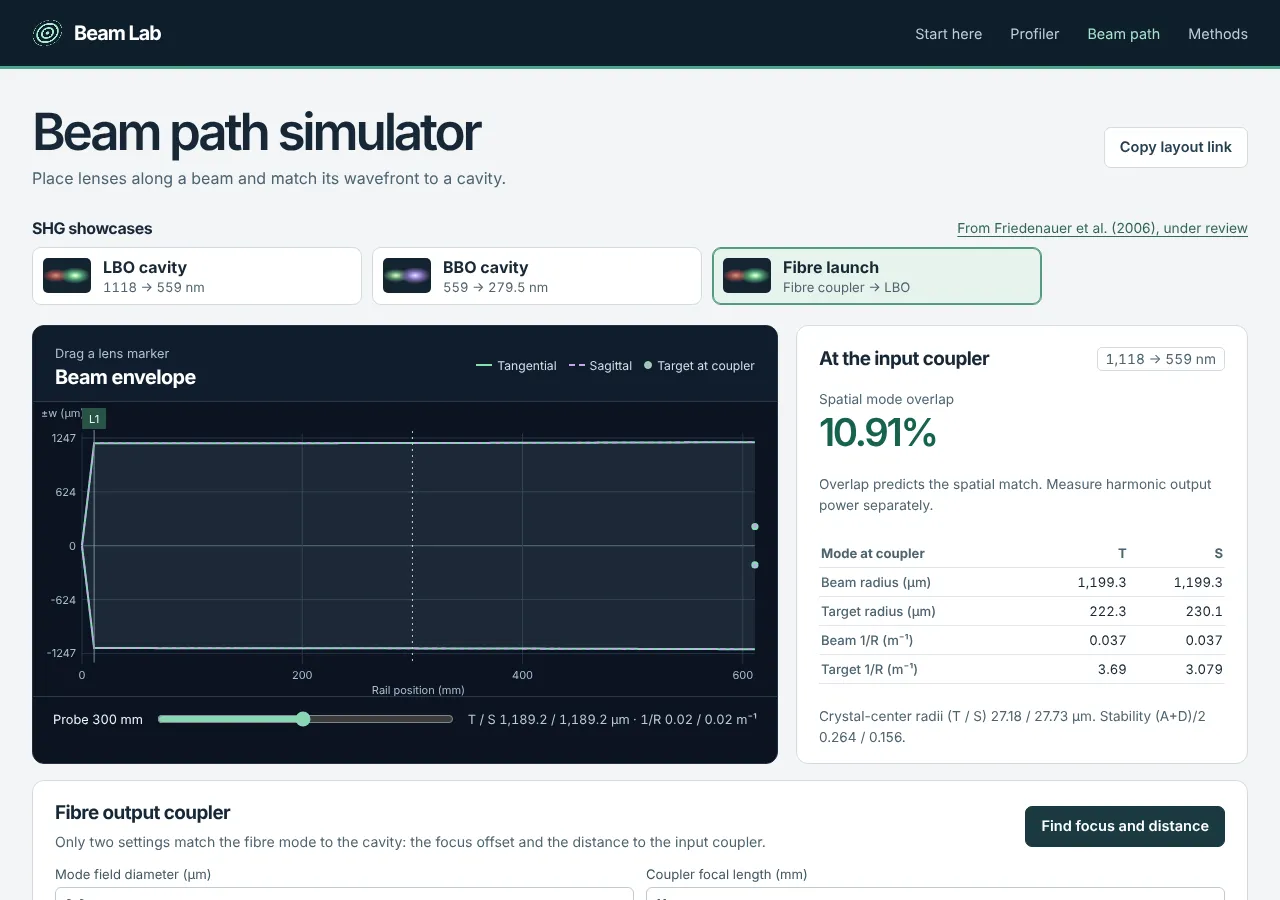
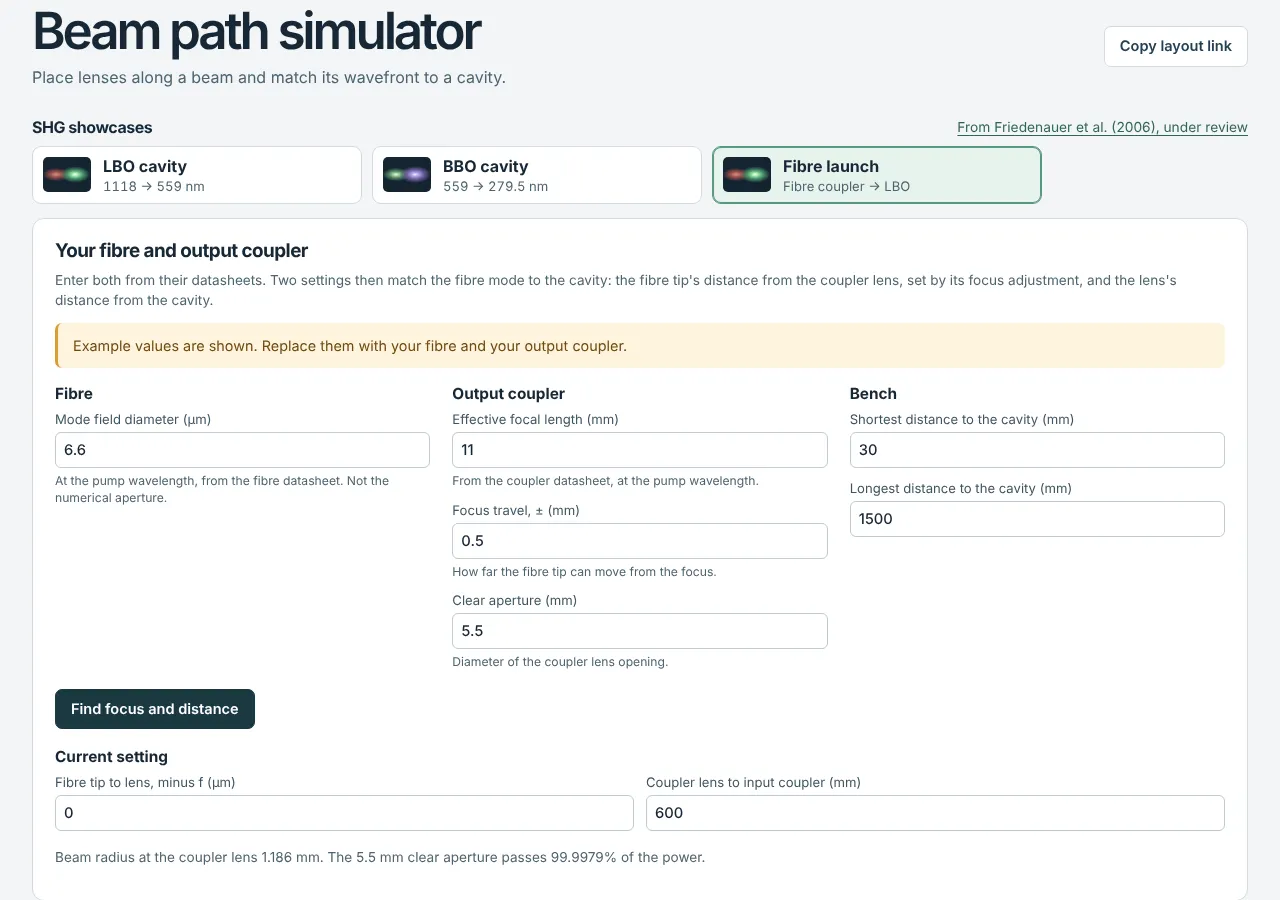
Make the fibre and output coupler the students' entry points
The fibre-launch page now opens with what students must enter, grouped
as fibre (mode field diameter), output coupler (effective focal length,
focus travel, clear aperture) and bench, each with a datasheet hint.
Example values are marked as such, on the page and in the search
result, until replaced. The current setting reads as the fibre tip's
distance from the lens minus f.

Claude-Session: https://claude.ai/code/session_0165KKh8yczxQ5JUnTcFPhvg

diff --git a/beam-path/index.html b/beam-path/index.html
@@ -18,6 +18,18 @@
 <a class="preset" href="?stage=bbo" data-stage="bbo"><span class="spectrum uv" aria-hidden="true"></span><span><strong>BBO cavity</strong><small>559 → 279.5 nm</small></span></a>
 <a class="preset" href="?stage=fiber" data-stage="fiber"><span class="spectrum ir" aria-hidden="true"></span><span><strong>Fibre launch</strong><small>Fibre coupler → LBO</small></span></a></div></section>
 <div id="import-note" class="notice" hidden></div>
+<section class="fit-block" id="fiber-launch" hidden><h2>Your fibre and output coupler</h2>
+<p class="hint">Enter both from their datasheets. Two settings then match the fibre mode to the cavity: the fibre tip's distance from the coupler lens, set by its focus adjustment, and the lens's distance from the cavity.</p>
+<p id="launch-example" class="notice">Example values are shown. Replace them with your fibre and your output coupler.</p>
+<div class="launch-groups">
+<fieldset><legend>Fibre</legend><div class="fields" id="launch-fibre"></div></fieldset>
+<fieldset><legend>Output coupler</legend><div class="fields" id="launch-coupler"></div></fieldset>
+<fieldset><legend>Bench</legend><div class="fields" id="launch-bench"></div></fieldset>
+</div>
+<button id="solve-launch" class="button dark">Find focus and distance</button>
+<fieldset class="launch-settings"><legend>Current setting</legend><div class="fields" id="launch-settings"></div></fieldset>
+<p id="launch-state" class="hint" role="status"></p>
+<p id="launch-result" class="hint" role="status" hidden></p></section>
 <div class="instrument">
 <section class="viewer" aria-label="Live beam path"><header class="view-heading"><div><span>Drag a lens marker</span><h2>Beam envelope</h2></div><div class="legend"><span class="t">Tangential</span><span class="s">Sagittal</span><span class="goal">Target at coupler</span></div></header>
 <canvas id="plot" aria-label="Beam radius along the optical rail. Drag a lens marker to move it, or use the lens position controls below."></canvas>
@@ -32,10 +44,6 @@
 <tr><th>Target 1/R (m⁻¹)</th><td id="tct">—</td><td id="tcs">—</td></tr></tbody></table>
 <p id="ring-result" class="hint"></p></section></div>
 <p class="notice" id="invalid" role="status" hidden></p>
-<section class="fit-block" id="fiber-launch" hidden><div class="section-title"><div><h2>Fibre output coupler</h2><p>Only two settings match the fibre mode to the cavity: the focus offset and the distance to the input coupler.</p></div><button id="solve-launch" class="button dark">Find focus and distance</button></div>
-<div class="fields" id="fiber-fields"></div>
-<p id="launch-state" class="hint" role="status"></p>
-<p id="launch-result" class="hint" role="status" hidden></p></section>
 <section class="fit-block"><div class="section-title"><div><h2>Lens rail</h2><p>Drag a lens on the plot or set its position from the start of the rail.</p></div><button id="add" class="button quiet">Add lens at probe</button></div><div id="lenses"></div></section>
 <section class="fit-block"><div class="section-title"><div><h2>Optimize mode matching</h2><p>Search unlocked positions within the rail, preserving lens order and clearance.</p></div><button id="search" class="button dark">Optimize layout</button></div>
 <div class="search-options"><label>Minimum clearance (mm)<input id="gap" type="number" step="any" min="0" value="10"></label>

diff --git a/beam-path/style.css b/beam-path/style.css
@@ -19,4 +19,7 @@
 
 /* Three showcases: one per row on a phone. */
 @media(max-width:560px){#presets{flex-direction:column}.preset{max-width:none}}
-#fiber-launch .section-title{margin-bottom:14px}
+#fiber-launch fieldset{border:0;padding:0;margin:0 0 16px;min-width:0}#fiber-launch legend{font-weight:650;font-size:.96rem;margin-bottom:8px;padding:0}
+#fiber-launch .notice{margin:4px 0 16px}.launch-groups{display:grid;grid-template-columns:repeat(3,minmax(0,1fr));gap:0 22px}.launch-groups .fields{grid-template-columns:1fr}
+#solve-launch{margin:2px 0 18px}.field-hint{font-size:.76rem;color:var(--muted);line-height:1.35}
+@media(max-width:780px){.launch-groups{grid-template-columns:1fr}}

diff --git a/README.md b/README.md
@@ -19,7 +19,7 @@ Open either doubling stage. Move a lens by its marker or its numerical position,
 
 The reference values come from §3 and Table 1 of [Friedenauer et al., *Applied Physics B* **84**, 371–373 (2006)](https://doi.org/10.1007/s00340-006-2274-2). Each stage is independently editable. The launch waist, injection lens values and placements, rail lengths (600 mm for LBO, 700 mm for BBO) and coupler location are illustrative. The rails are long enough that the optimized two-lens layouts stay clear of the coupler. The presets interpret the tabulated round trips as geometric lengths and take crystal length along the internal ray. The paper’s quoted 750 MHz LBO free spectral range corresponds to about 400 mm of round-trip group optical length. They use approximate scalar pump indices of 1.60 and 1.67 and 50 mm mirror curvature in both rings. The second stage inherits the 25 mm mirror focal length specified for the first stage. Table 1 gives measured harmonic conversion efficiencies of 52.7% and 28.9%.
 
-**[Fibre launch](https://uwarring82.github.io/beam-profiler/beam-path/?stage=fiber)** matches the first stage with the fibre output coupler alone, as is common in the lab. The fibre mode is a Gaussian waist at the fibre tip with half the mode field diameter as its radius; use the diameter at the pump wavelength, since the quoted numerical aperture is not the beam divergence. The coupler is a thin lens of focal length f. Two settings remain: the focus offset δ of the fibre tip from f, and the distance D from the lens to the cavity input coupler. **Find focus and distance** searches δ within the coupler's focus travel and D within the bench range, starting from waist-to-waist imaging onto the mean of the two target planes (d₁ = f + (w₀/w_t)√(f² − f₀²), d₂ = f + (w_t/w₀)√(f² − f₀²), f₀ = π w₀ w_t/λ). It reports the focus and distance errors that each cost 1% of the overlap, and the power through the coupler's clear aperture, 1 − exp(−2a²/w²) for aperture radius a. A round fibre beam cannot follow the cavity mode's tangential–sagittal difference, which sets the remaining loss. The focus offset counts from the effective focal length; a collimator's mechanical scale has a different zero, but changes in offset carry over. The mode field diameter (6.6 µm), focal length (11 mm), focus travel (±0.5 mm) and clear aperture (5.5 mm) are illustrative.
+**[Fibre launch](https://uwarring82.github.io/beam-profiler/beam-path/?stage=fiber)** matches the first stage with the fibre output coupler alone, as is common in the lab. The fibre mode is a Gaussian waist at the fibre tip with half the mode field diameter as its radius; use the diameter at the pump wavelength, since the quoted numerical aperture is not the beam divergence. The coupler is a thin lens of focal length f. Two settings remain: the focus offset δ of the fibre tip from f, and the distance D from the lens to the cavity input coupler. **Find focus and distance** searches δ within the coupler's focus travel and D within the bench range, starting from waist-to-waist imaging onto the mean of the two target planes (d₁ = f + (w₀/w_t)√(f² − f₀²), d₂ = f + (w_t/w₀)√(f² − f₀²), f₀ = π w₀ w_t/λ). It reports the focus and distance errors that each cost 1% of the overlap, and the power through the coupler's clear aperture, 1 − exp(−2a²/w²) for aperture radius a. A round fibre beam cannot follow the cavity mode's tangential–sagittal difference, which sets the remaining loss. The focus offset counts from the effective focal length; a collimator's mechanical scale has a different zero, but changes in offset carry over. Students start by entering their own fibre (mode field diameter) and output coupler (effective focal length, focus travel, clear aperture) and the usable bench distances. Until they do, the page marks the example values (6.6 µm, 11 mm, ±0.5 mm, 5.5 mm) as examples, and so does the search result.
 
 Propagation uses independent tangential and sagittal Gaussian q parameters with thin spherical or axis-aligned cylindrical lenses. The four-mirror cavity uses the stable round-trip fixed point at a plane input coupler. The two curved mirrors have effective focal lengths R cos(θ)/2 and R/(2 cos(θ)), where θ is **half** the full fold. For an internal ray path L and pump index n the plane-parallel crystal contributes L/n in both planes at normal incidence. At coplanar Brewster incidence it contributes L/n³ in the tangential plane, and the tangential beam radius expands by n inside the crystal. For derivations see [Kara, Appendix A](https://www.imperial.ac.uk/media/imperial-college/research-centres-and-groups/the-centre-for-cold-matter/public/Dhiren-Kara-%282010%29.pdf).
 

diff --git a/docs/work-programme-entrance.md b/docs/work-programme-entrance.md
@@ -152,7 +152,7 @@ Do them in order. Each one is a pull request with screenshots at 1280 px and 390
 | WP | Deliverable | Accepted when |
 | --- | --- | --- |
 | 1 | Landing page and design frame | Passes the design review gate. The live action works on a phone. All five entry questions lead to a page, a stub if need be. |
-| 2 | Layer cards 0–2 | Each card has every element in section 2.1, including a skip self-check, common traps and what the layer cannot settle. Every deep link opens the stated tool state. From “Focus a beam onto a target”, the Layer 1 action opens the simulator with “Specified waist in air” already selected. |
+| 2 | Layer cards 0–2 | Each card has every element in section 2.1, including a skip self-check, common traps and what the layer cannot settle. Every deep link opens the stated tool state. From “Focus a beam onto a target”, the Layer 1 action opens the simulator with “Specified waist in air” already selected. From “Couple a beam into a cavity or fibre”, the card also offers the fibre-launch showcase, where students enter their fibre's mode field diameter and their output coupler's focal length, focus travel and clear aperture. |
 | 3 | Loop, trade-off examples, decision-log template | The loop is on the landing page with a text equivalent. Each trade-off row links to a place in a tool where the student can see it. |
 | 4 | macOS install card; Linux and Windows cards marked "validation pending" | The four-step ladder works on a clean Mac. Pending cards say so in their first line. |
 | 5 | CI checks | A test opens every internal link, loads every exercise through the app's validator, and asserts every number quoted on a card against the tools. Stage B runs on Ubuntu, macOS and Windows runners. |

diff --git a/docs/logbook.md b/docs/logbook.md
@@ -6,6 +6,7 @@ Consequential changes and how they were validated. Newest first.
 
 - Added a fibre-launch showcase: the fibre mode and the output coupler alone match the LBO cavity, with focus offset and distance to the input coupler as the two settings. The search reports the 1% focus and distance tolerances and the clear-aperture transmission.
 - Validated against a brute-force grid over both settings, exact waist-to-waist imaging onto a round target, the Gaussian aperture integral and a deliberately short focus travel that reports its limits. With the illustrative 6.6 µm mode field diameter and 11 mm coupler, the overlap rises from 10.91% (collimated, 600 mm) to 99.92% at +175.8 µm and 735.4 mm. A ±6.1 µm focus error or a ±23.4 mm distance error costs 1%. Browser checks at 1280 px and 390 px; no console errors.
+- The fibre and the output coupler are the students' entry points: they sit first on the page, grouped as fibre, output coupler and bench, with datasheet hints. Example values are marked until replaced.
 
 ## 2026-11-24 · WP 1 · Student entrance
 
